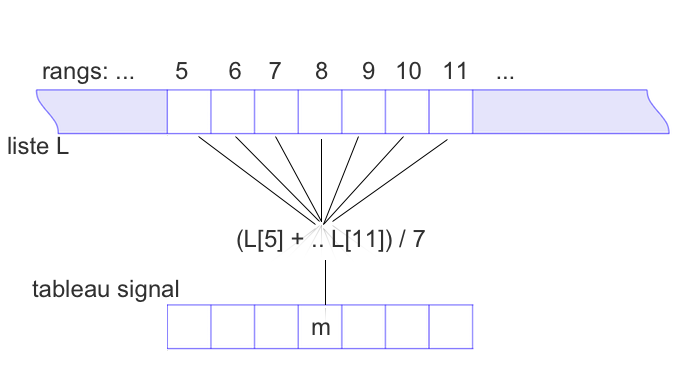
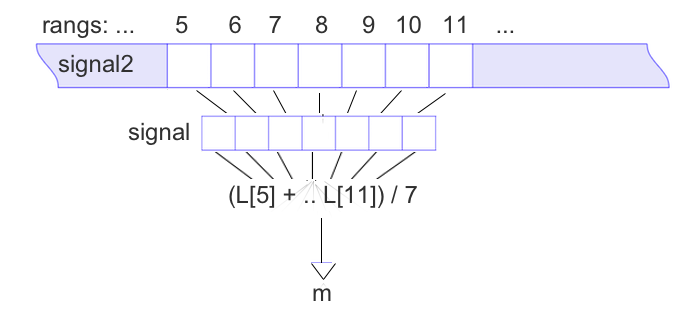
nsi term maj des tp structure abstraites

diff --git a/content/docs/NSI/NSI_index.html b/content/docs/NSI/NSI_index.html
@@ -57,6 +57,13 @@ bookShowToc: false
   </ul>
 </p>
 
+<p>Semaine du 02 Octobre
+  <ul>
+       <li>TD sur la calcul d'une moyenne glissante: <a href="/docs/NSI/structure/page1/">Lien</a></li>
+    <li>Projet sur le jeu du Snake avec le module Pygame: <a href="/docs/NSI/projet/page5/">Lien</a></li>
+  </ul>
+</p>
+
 
 
 <div>

diff --git a/content/docs/NSI/structure/page1.md b/content/docs/NSI/structure/page1.md
@@ -484,21 +484,39 @@ plt.show()
 
 **Etapes:**
 
-* On fait une copie par valeur de `signal2` (liste des valeurs d'origine) dans `signal_filtre` (liste dont les termes seront remplacés par la valeur moyenée).
+* On fait une copie par valeur de `signal2` (liste des valeurs d'origine) dans `signal_filtre` (liste dont les termes seront remplacés par la valeur moyenée):
+
+```
+signal_filtre = signal2.copy()
+``` 
 
 * On choisit une certaine largeur de liste pour les valeurs dont on fait la moyenne. Par exemple largeur = 10.
 
-* Au rang i, dans la liste bruitée `signal2`: On prélève les valeurs entre les rangs $i- largeur//2$ et $i + largeur//2$ que l'on stocke dans un tableau STATIQUE appelé `signal`. Ce tableau conserve la même *taille* pendant tout l'exercice. (ici, largeur = 10)
+* Au rang i, dans la liste bruitée `signal2`: On prélève les valeurs entre les rangs $i- largeur//2$ et $i + largeur//2$ que l'on stocke dans un tableau STATIQUE appelé `signal`. Ce tableau conserve la même *taille* pendant tout l'exercice. (ici, largeur = 10):
+
+```
+signal = signal2[i-largeur//2:i+largeur//2]
+``` 
+
 
 * On calcule la moyenne de valeurs de `signal` avec la fonction `moyenne` vue dans l'exercice précédent.
 
 {{< img src="../images/moyenne_gli.png" caption="" >}}
 
+
+```
+signal_filtre[i] = moyenne(signal)
+```
+
 * On place la valeur moyenne dans `signal_filtre[i]`
 
 {{< img src="../images/moyenne_gli2.png" caption="" >}}
 
-* On répète l'opération pour tous les index `i` compris entre $largeur//2,len(signal_filtre)-largeur//2)$
+* On répète l'opération pour tous les index `i` compris entre `largeur//2,len(signal2)-largeur//2)`:
+
+```
+for i in range(largeur//2,len(signal2)-largeur//2):
+```
 
 Puis on affiche les graphique de `signal2` (inchangé) et `signal_filtre` (courbe lissée)
 

diff --git a/content/docs/NSI/projet/page5.md b/content/docs/NSI/projet/page5.md
@@ -75,7 +75,7 @@ quit()
 
 Copier-coller celui-ci dans la fenêtre du fichier `main.py`.
 
-Puis programmer les fonctions utiles pour le bon fonctionnement du jeu dans un nouveau fichier (nouvel onglet dans Trinket) que vous appelerez `utils.py`. Ce seront les fonction de l'*interface* du type abstrait `serpent`.
+Puis programmer les fonctions utiles pour le bon fonctionnement du jeu dans un nouveau fichier (nouvel onglet dans Trinket) que vous appelerez `utils.py`. Ce seront les fonctions de l'*interface* du type abstrait `serpent`.
 
 Dans le programme `main.py`:
 
@@ -115,6 +115,10 @@ def supprime_queue(S):
 ```  
 
 # Démarche de projet
+## La structure de données choisie
+Expliquer pourquoi la structure de données `serpent`, et son interface constituée de `affiche, tete, ajoute_tete, et supprime_queue` est bien adpatée pour implémenter le jeu du Snake.
+
+## Prolongement
 Quelles fonctionnalités du jeu manque-t-il pour que celui-ci soit complet? 
 
 * quelles fonctions de l'interface serpent?
